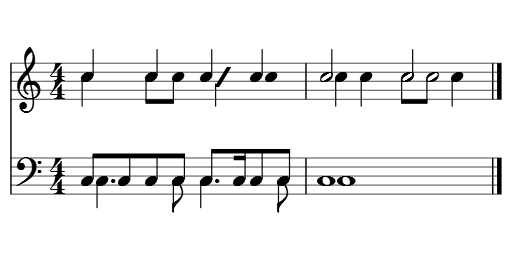
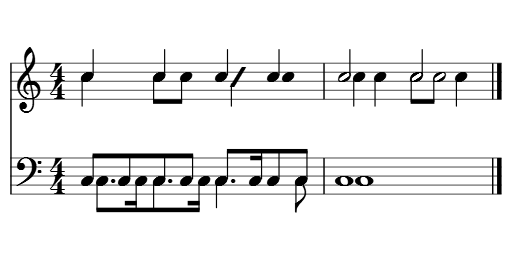
fix #25497: merge matching non-auto unison noteheads
Former-commit-id: 0c4192140820036b79165db5595df4982fd97574

Changed region(s): [[0.2812, 0.1875, 0.9375, 0.4062], [0.1875, 0.5625, 0.75, 0.8438]]

diff --git a/libmscore/layout.cpp b/libmscore/layout.cpp
@@ -267,9 +267,26 @@ void Score::layoutChords1(Segment* segment, int staffIdx)
                                     matchPending = false;
                                     nHeadType = (n->headType() == NoteHeadType::HEAD_AUTO) ? n->chord()->durationType().headType() : n->headType();
                                     pHeadType = (p->headType() == NoteHeadType::HEAD_AUTO) ? p->chord()->durationType().headType() : p->headType();
-                                    if (n->headGroup() != p->headGroup() || nHeadType != pHeadType || n->chord()->dots() != p->chord()->dots()
-                                        || n->tpc() != p->tpc() || !n->chord()->stem() || !p->chord()->stem() || n->mirror() || p->mirror())
+                                    // the most important rules for sharing noteheads on unisons between voices are
+                                    // that notes must be one same line with same tpc
+                                    // and noteheads must be unmirrored and of same group and type
+                                    if (n->headGroup() != p->headGroup() || nHeadType != pHeadType || n->tpc() != p->tpc() || n->mirror() || p->mirror()) {
                                           shareHeads = false;
+                                          }
+                                    else {
+                                          // noteheads are potentially shareable
+                                          // it is more subjective at this point
+                                          // current default is to require *either* of the following:
+                                          //    1) both have same number of dots, and both have stems
+                                          // or 2) one or more of the noteheads is not of type AUTO, but is explicitly set to match the other
+                                          // thus user can force notes to be shared despite differing number of dots or either being stemless
+                                          // by setting one of the notehead types to match the other
+                                          // TODO: consider adding a style option, staff properties, or note property to control sharing
+                                          if ((n->chord()->dots() != p->chord()->dots() || !n->chord()->stem() || !p->chord()->stem()) &&
+                                              (n->headType() == NoteHeadType::HEAD_AUTO && p->headType() == NoteHeadType::HEAD_AUTO)) {
+                                                shareHeads = false;
+                                                }
+                                          }
                                     break;
                               case 1:
                                     // second
@@ -300,20 +317,23 @@ void Score::layoutChords1(Segment* segment, int staffIdx)
                               Note* p = overlapNotes[i-1];
                               Note* n = overlapNotes[i];
                               if (!(p->chord()->isNudged() || n->chord()->isNudged())) {
-                                    bool onLine = !(p->line() & 1);
-                                    if (onLine) {
-                                          // hide dots for lower voice
-                                          if (p->voice() & 1)
-                                                p->setDotsHidden(true);
-                                          else
-                                                n->setDotsHidden(true);
-                                          }
-                                    else {
-                                          // hide dots for upper voice
-                                          if (!(p->voice() & 1))
-                                                p->setDotsHidden(true);
-                                          else
-                                                n->setDotsHidden(true);
+                                    if (p->chord()->dots() == n->chord()->dots()) {
+                                          // hide one set dots
+                                          bool onLine = !(p->line() & 1);
+                                          if (onLine) {
+                                                // hide dots for lower voice
+                                                if (p->voice() & 1)
+                                                      p->setDotsHidden(true);
+                                                else
+                                                      n->setDotsHidden(true);
+                                                }
+                                          else {
+                                                // hide dots for upper voice
+                                                if (!(p->voice() & 1))
+                                                      p->setDotsHidden(true);
+                                                else
+                                                      n->setDotsHidden(true);
+                                                }
                                           }
                                     // formerly we hid noteheads in an effort to fix playback
                                     // but this doesn't work for cases where noteheads cannot be shared
